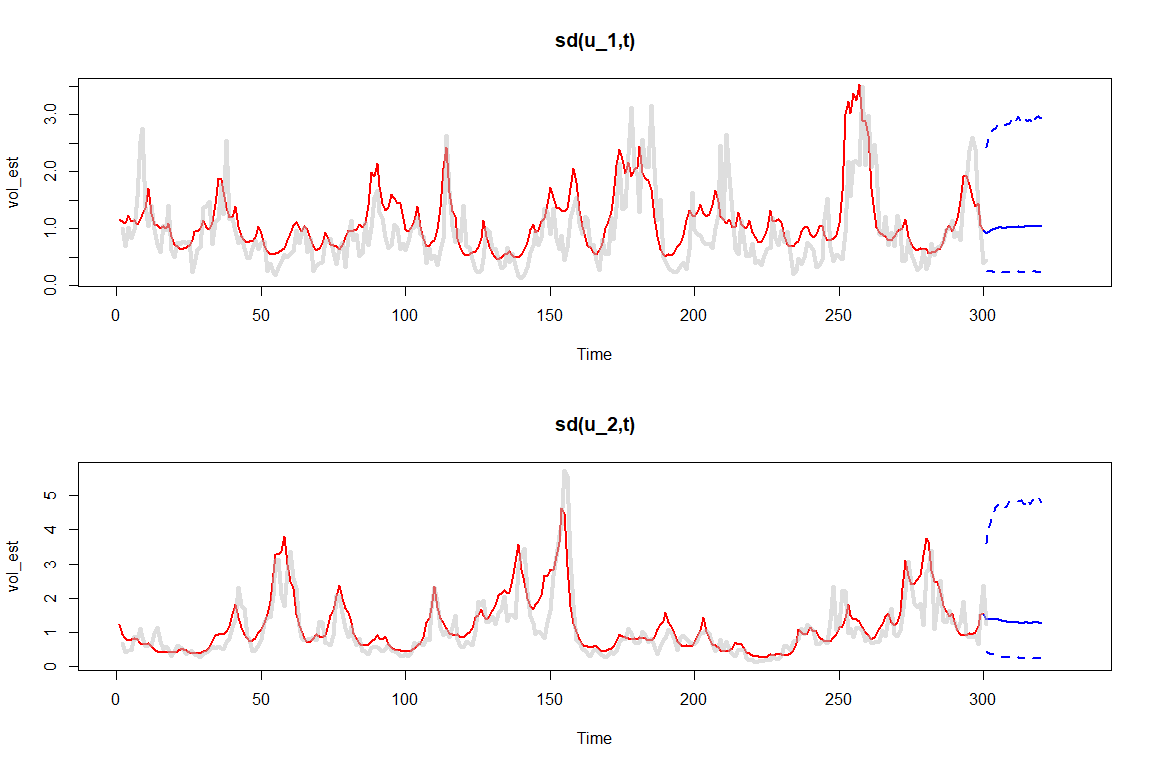
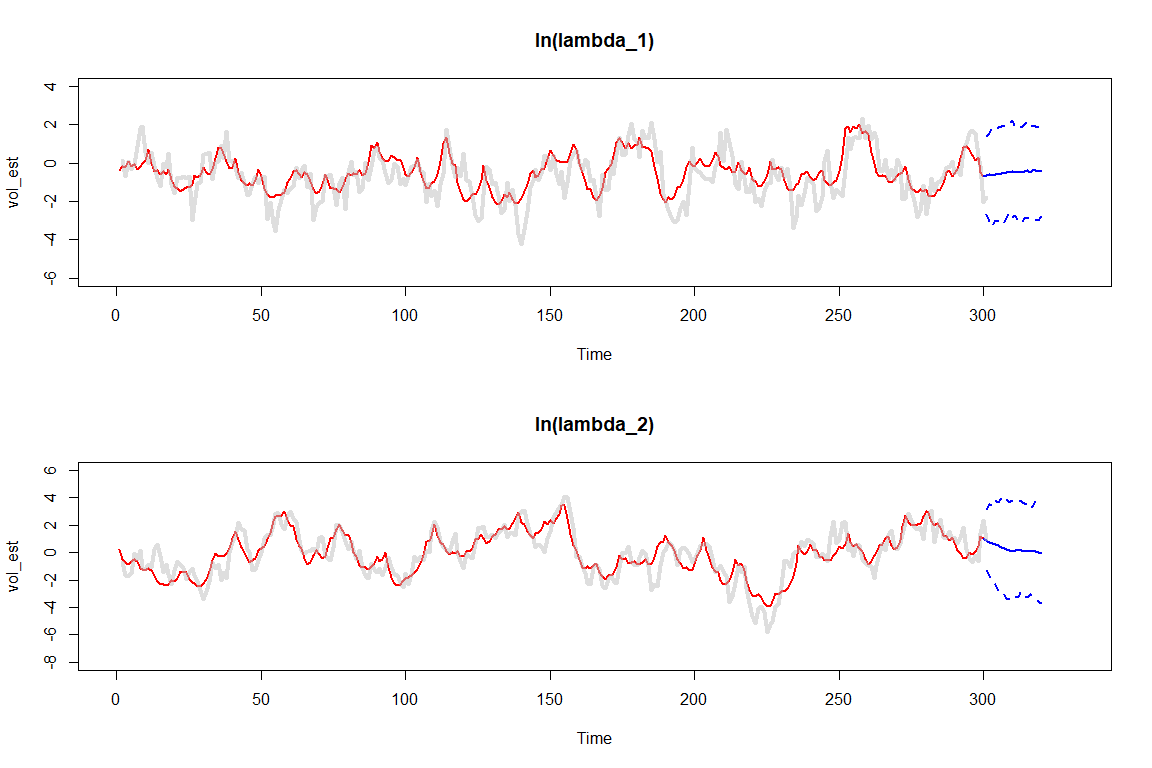
dksaoda

diff --git a/README.md b/README.md
@@ -7,8 +7,8 @@
     2025)](#example-2-gustafsson-and-villani-2025)
   - [Example 3 (Swedish data,
     1987Q2-2025Q3)](#example-3-swedish-data-1987q2-2025q3)
-  - [Stochastic volatility - extension of Clark (2011) —
-    WIP](#stochastic-volatility---extension-of-clark-2011--wip)
+  - [Stochastic volatility - extension of Clark
+    (2011)](#stochastic-volatility---extension-of-clark-2011)
   - [References](#references)
 
 <!-- README.md is generated from README.Rmd. Please edit that file -->
@@ -940,7 +940,7 @@ bvar_obj <- forecast(bvar_obj,
                      estimation="gibbs")
 ```
 
-## Stochastic volatility - extension of Clark (2011) — WIP
+## Stochastic volatility - extension of Clark (2011)
 
 Clark (2011) extends the Steady-State BVAR(p) model (Villani, 2009) to
 allow the errors/innovations $u_t$ to have time varying covariance
@@ -1205,6 +1205,36 @@ Remember here since $p=1$ we have $\beta'=\Pi_1$.
 
 ``` r
 summary(bvar_obj)
+#> beta posterior mean
+#>       
+#>        [,1]  [,2]
+#>   [1,] 0.77 -0.20
+#>   [2,] 0.15  0.72
+#> 
+#> Psi posterior mean
+#>       
+#>        [,1] [,2]
+#>   [1,] 2.15 5.82
+#>   [2,] 3.11 9.04
+#> 
+#> A posterior mean
+#>       
+#>        [,1] [,2]
+#>   [1,] 1.00    0
+#>   [2,] 0.24    1
+#> 
+#> gamma_0 posterior mean
+#> [1] -0.13 -0.01
+#> 
+#> gamma_1 posterior mean
+#> [1] 0.75 0.86
+#> 
+#> 
+#> Phi posterior mean
+#>       
+#>         [,1]  [,2]
+#>   [1,]  0.65 -0.08
+#>   [2,] -0.08  0.80
 ```
 
 Looks like it works quite well! Now lets forecast
@@ -1218,6 +1248,8 @@ bvar_obj <- forecast(bvar_obj,
                      show_all = TRUE)
 ```
 
+<img src="man/figures/README-unnamed-chunk-42-1.png" width="100%" />
+
 We can also plot the estimates (posterior means) of the log volatilities
 ($\ln \lambda_t$ in red. In grey, we plot the true unobserved/latent
 process. In blue we plot the forecasts of the log volatilities along
@@ -1226,15 +1258,13 @@ with a 95% prediction interval.
 ``` r
 par(mfrow = c(2,1))
 stochastic_volatility_forecast(bvar_obj, ci=0.95, ylim=c(-6,4), plot_idx=1, vol="log_lambda")
-lines(2:N, log_lambda[2:N,1], #log_lambda are true log_lambdas from the DGP above
-      col = adjustcolor("grey", alpha.f = 0.5),
-      lwd = 4)
+lines(2:N, log_lambda[2:N,1], col = adjustcolor("grey", alpha.f = 0.5), lwd = 4)
 
-stochastic_volatility_forecast(bvar_obj, ci=0.95, ylim=ylim=c(-8,6), plot_idx=2, vol="log_lambda")
-lines(2:N, log_lambda[2:N,2],
-      col = adjustcolor("grey", alpha.f = 0.5),
-      lwd = 4)
+stochastic_volatility_forecast(bvar_obj, ci=0.95, ylim=c(-8,6), plot_idx=2, vol="log_lambda")
+lines(2:N, log_lambda[2:N,2], col = adjustcolor("grey", alpha.f = 0.5), lwd = 4)
 ```
+
+<img src="man/figures/README-unnamed-chunk-43-1.png" width="100%" />
 
 Now let us plot the estimates (posterior means) of the volatilities,
 defined as reduced form residual/innovation ($u_t$) standard deviations,
@@ -1249,16 +1279,14 @@ for(t in 1:(N)){
 }
 
 par(mfrow = c(2,1))
-stochastic_volatility_forecast(bvar_obj, ci=0.95, ylim=range(sigma[2:N,1]), plot_idx=1, vol="sd")
-lines(2:N, sigma[2:N,1],
-      col = adjustcolor("grey", alpha.f = 0.5),
-      lwd = 4)
+stochastic_volatility_forecast(bvar_obj, ci=0.95, ylim=c(0,4), plot_idx=1, vol="sd")
+lines(2:N, sigma[2:N,1], col = adjustcolor("grey", alpha.f = 0.5), lwd = 4)
 
-stochastic_volatility_forecast(bvar_obj, ci=0.95, ylim=range(sigma[2:N,2]), plot_idx=2, vol="sd")
-lines(2:N, sigma[2:N,2],
-      col = adjustcolor("grey", alpha.f = 0.5),
-      lwd = 4)
+stochastic_volatility_forecast(bvar_obj, ci=0.95, ylim=c(0,8), plot_idx=2, vol="sd")
+lines(2:N, sigma[2:N,2], col = adjustcolor("grey", alpha.f = 0.5), lwd = 4)
 ```
+
+<img src="man/figures/README-unnamed-chunk-44-1.png" width="100%" />
 
 ## References
 
